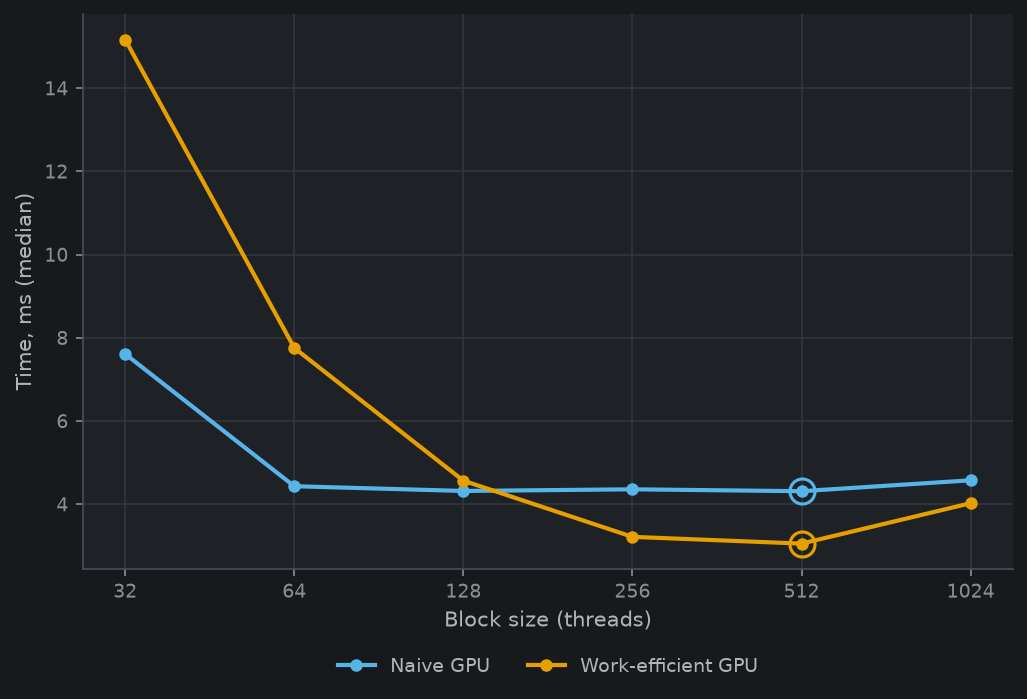
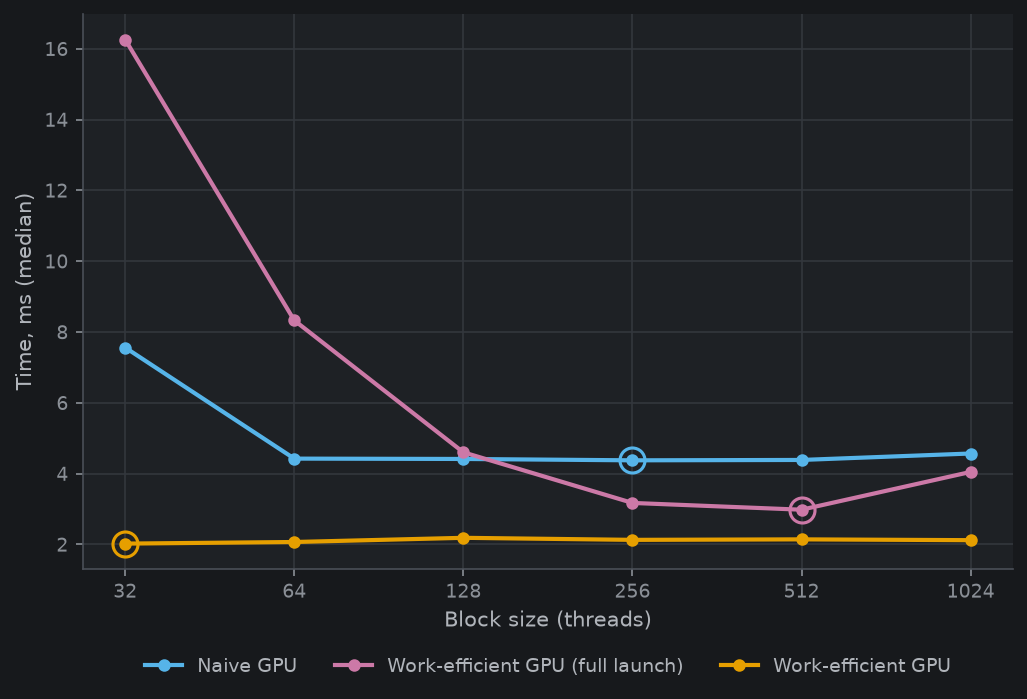
updated profiling graphs, writing readme

diff --git a/README.md b/README.md
@@ -3,26 +3,28 @@ CUDA Stream Compaction
 
 **University of Pennsylvania, CIS 565: GPU Programming and Architecture, Project 2**
 
-* (TODO) YOUR NAME HERE
-  * (TODO) [LinkedIn](), [personal website](), [twitter](), etc.
-* Tested on: (TODO) Windows 22, i7-2222 @ 2.22GHz 22GB, GTX 222 222MB (Moore 2222 Lab)
-
-### (TODO: Your README)
-
-Include analysis, etc. (Remember, this is public, so don't put
-anything here that you don't want to share with the world.)
+* Yichen Huang
+    - [LinkedIn](https://www.linkedin.com/in/yichen-huang-970b582bb/), [personal website](https://as7tesia.com/)
+* Tested on: Windows 11, AMD Ryzen 5950X @ 4.3GHz (PBO Enabled), 64GB(3200 MT/s), RTX 3090 24GB
 
 
-### Part 5: why is my work-efficient scan slow
+## Project Description
+In this project I implemented:
+- CPU Scan, CPU Stream Compaction
+- Naive GPU Scan, Stupid Work-Efficient GPU Scan, Less-Stupid Work-Efficient GPU Scan
+- GPU Stream Compaction
 
-**What I noticed**
+## Performance Analysis
 
+
+## Why is my work-efficient scan so slow
+### Observation
 The work-efficient scan only beats naive past 2^22 and is still ~8x behind Thrust at 2^26. The block size
 sweep is the real tell though: at 2^24 it goes 15.2 ms at block 32, 7.8 at 64, 4.6 at 128, 3.1 at 512. Naive
 over the same range is flat (4.4 -> 4.3 ms). A memory-bound kernel doesn't halve when you double the block size.
 That curve is the cost of dispatching blocks, so most of what I'm launching must not be doing anything.
 
-**The problem**
+### Reasoning
 
 - I launch the same grid at every level: `paddedN / blockSize` blocks, 2^15 blocks (2^19 warps) at 2^24 with
   block 512. But the number of threads that pass the `index % 2^(d+1) == 0` check halves every level.
@@ -35,14 +37,10 @@ That curve is the cost of dispatching blocks, so most of what I'm launching must
   I launch 24 levels x 2^19 = 24 * 2^19 warps. About 4% of what gets scheduled does anything.
 - Kernel launch overhead is a footnote: 48 launches at a few us each is ~0.2 ms of the 3 ms.
 
-**Thing I thought was the cause but isn't**
+- I also thought that padding to a power of two was a big issue because worst case it's almost 2x (33 -> 64), but I later realized in my sweep everything is already a power of 2.
 
-Padding to a power of two. Worst case it's almost 2x (33 -> 64) so it does matter in general, but every size
-in my sweep is already a power of two, so it contributes zero to these numbers.
-
-**The fix**
-
-Index math only. At level d there are exactly `paddedN >> (d+1)` working threads, so launch that many (grid
+### Fix
+By doing some index math: at level d there are exactly `paddedN >> (d+1)` working threads, so launch that many (grid
 size computed per level, min 1 block) and have thread `k` handle the node the old code reached at
 `index = k << (d+1)`. The read/write offsets stay the same, the modulo check goes away. Same change in the
 down-sweep.
@@ -53,7 +51,38 @@ levels where there are fewer than 32 threads total, which you can't avoid.
 
 **Results**
 
-TODO after re-sweep: before/after table at 2^24, plot from `img/perf/`, new tuned block size.
+Both versions are in the sweep (`efficient` = compacted launch, `efficient_slow` = the original)
+Scan at 2^24 by block size (ms):
+
+| block | 32 | 64 | 128 | 256 | 512 | 1024 |
+|---|---|---|---|---|---|---|
+| full launch | 16.26 | 8.33 | 4.60 | 3.17 | 2.98 | 4.05 |
+| compacted | 2.02 | 2.07 | 2.19 | 2.13 | 2.14 | 2.12 |
+
+The block size curve went flat, which is what you'd expect if the old curve was really measuring how
+many dead blocks I was dispatching. Old version varied 8x across block sizes, new one varies 8%.
+
+Scan at each version's best block (ms):
+
+| n | full launch | compacted | speedup |
+|---|---|---|---|
+| 2^20 | 0.371 | 0.297 | 1.25x |
+| 2^22 | 0.888 | 0.671 | 1.32x |
+| 2^24 | 2.982 | 2.025 | 1.47x |
+| 2^26 | 11.882 | 7.505 | 1.58x |
+
+Compacted scan beats naive from 2^19 up and CPU from 2^20 up. Still ~4.8x behind Thrust at 2^26.
+Below ~2^15 the two are indistinguishable. At that
+size the old version only launches a handful of blocks per level anyway.
+Speedup grows with n because the dead-block count scales with n while the launch floor doesn't.
+
+![Scan time vs block size at n = 2^24](img/perf/block_size_scan.png)
+
+*Scan time vs block size at n = 2^24. The ring marks the fastest block size for each implementation.*
+
+![Scan time vs array size](img/perf/scan_vs_n.png)
+
+*Scan time vs array size, log-log. Each implementation at its fastest block size.*
 
 
 ### Build notes
